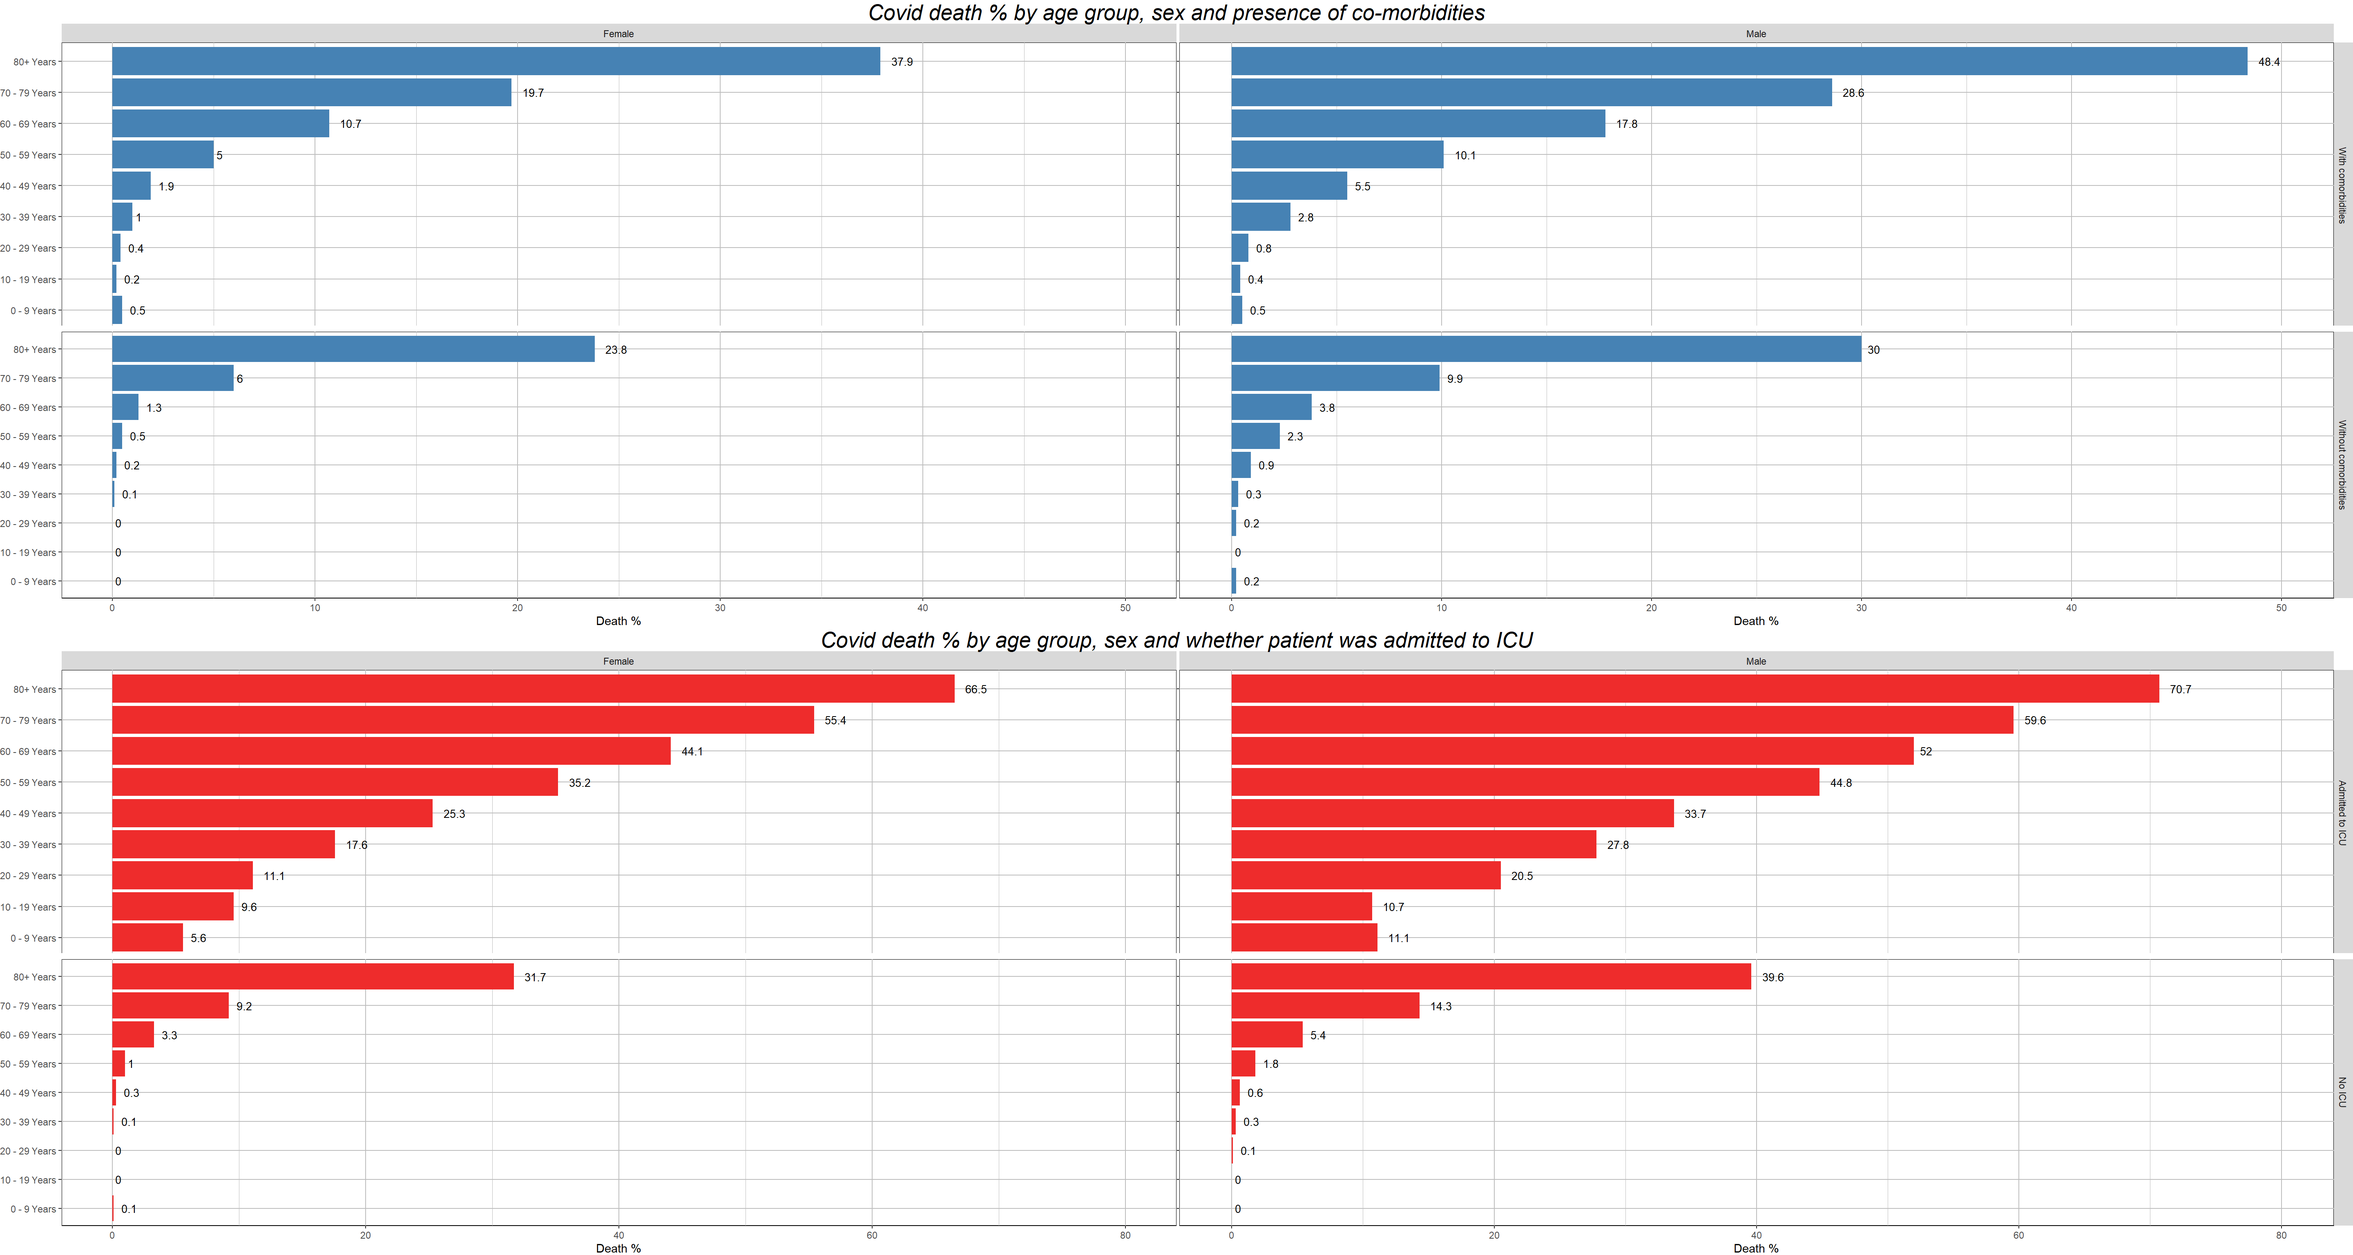
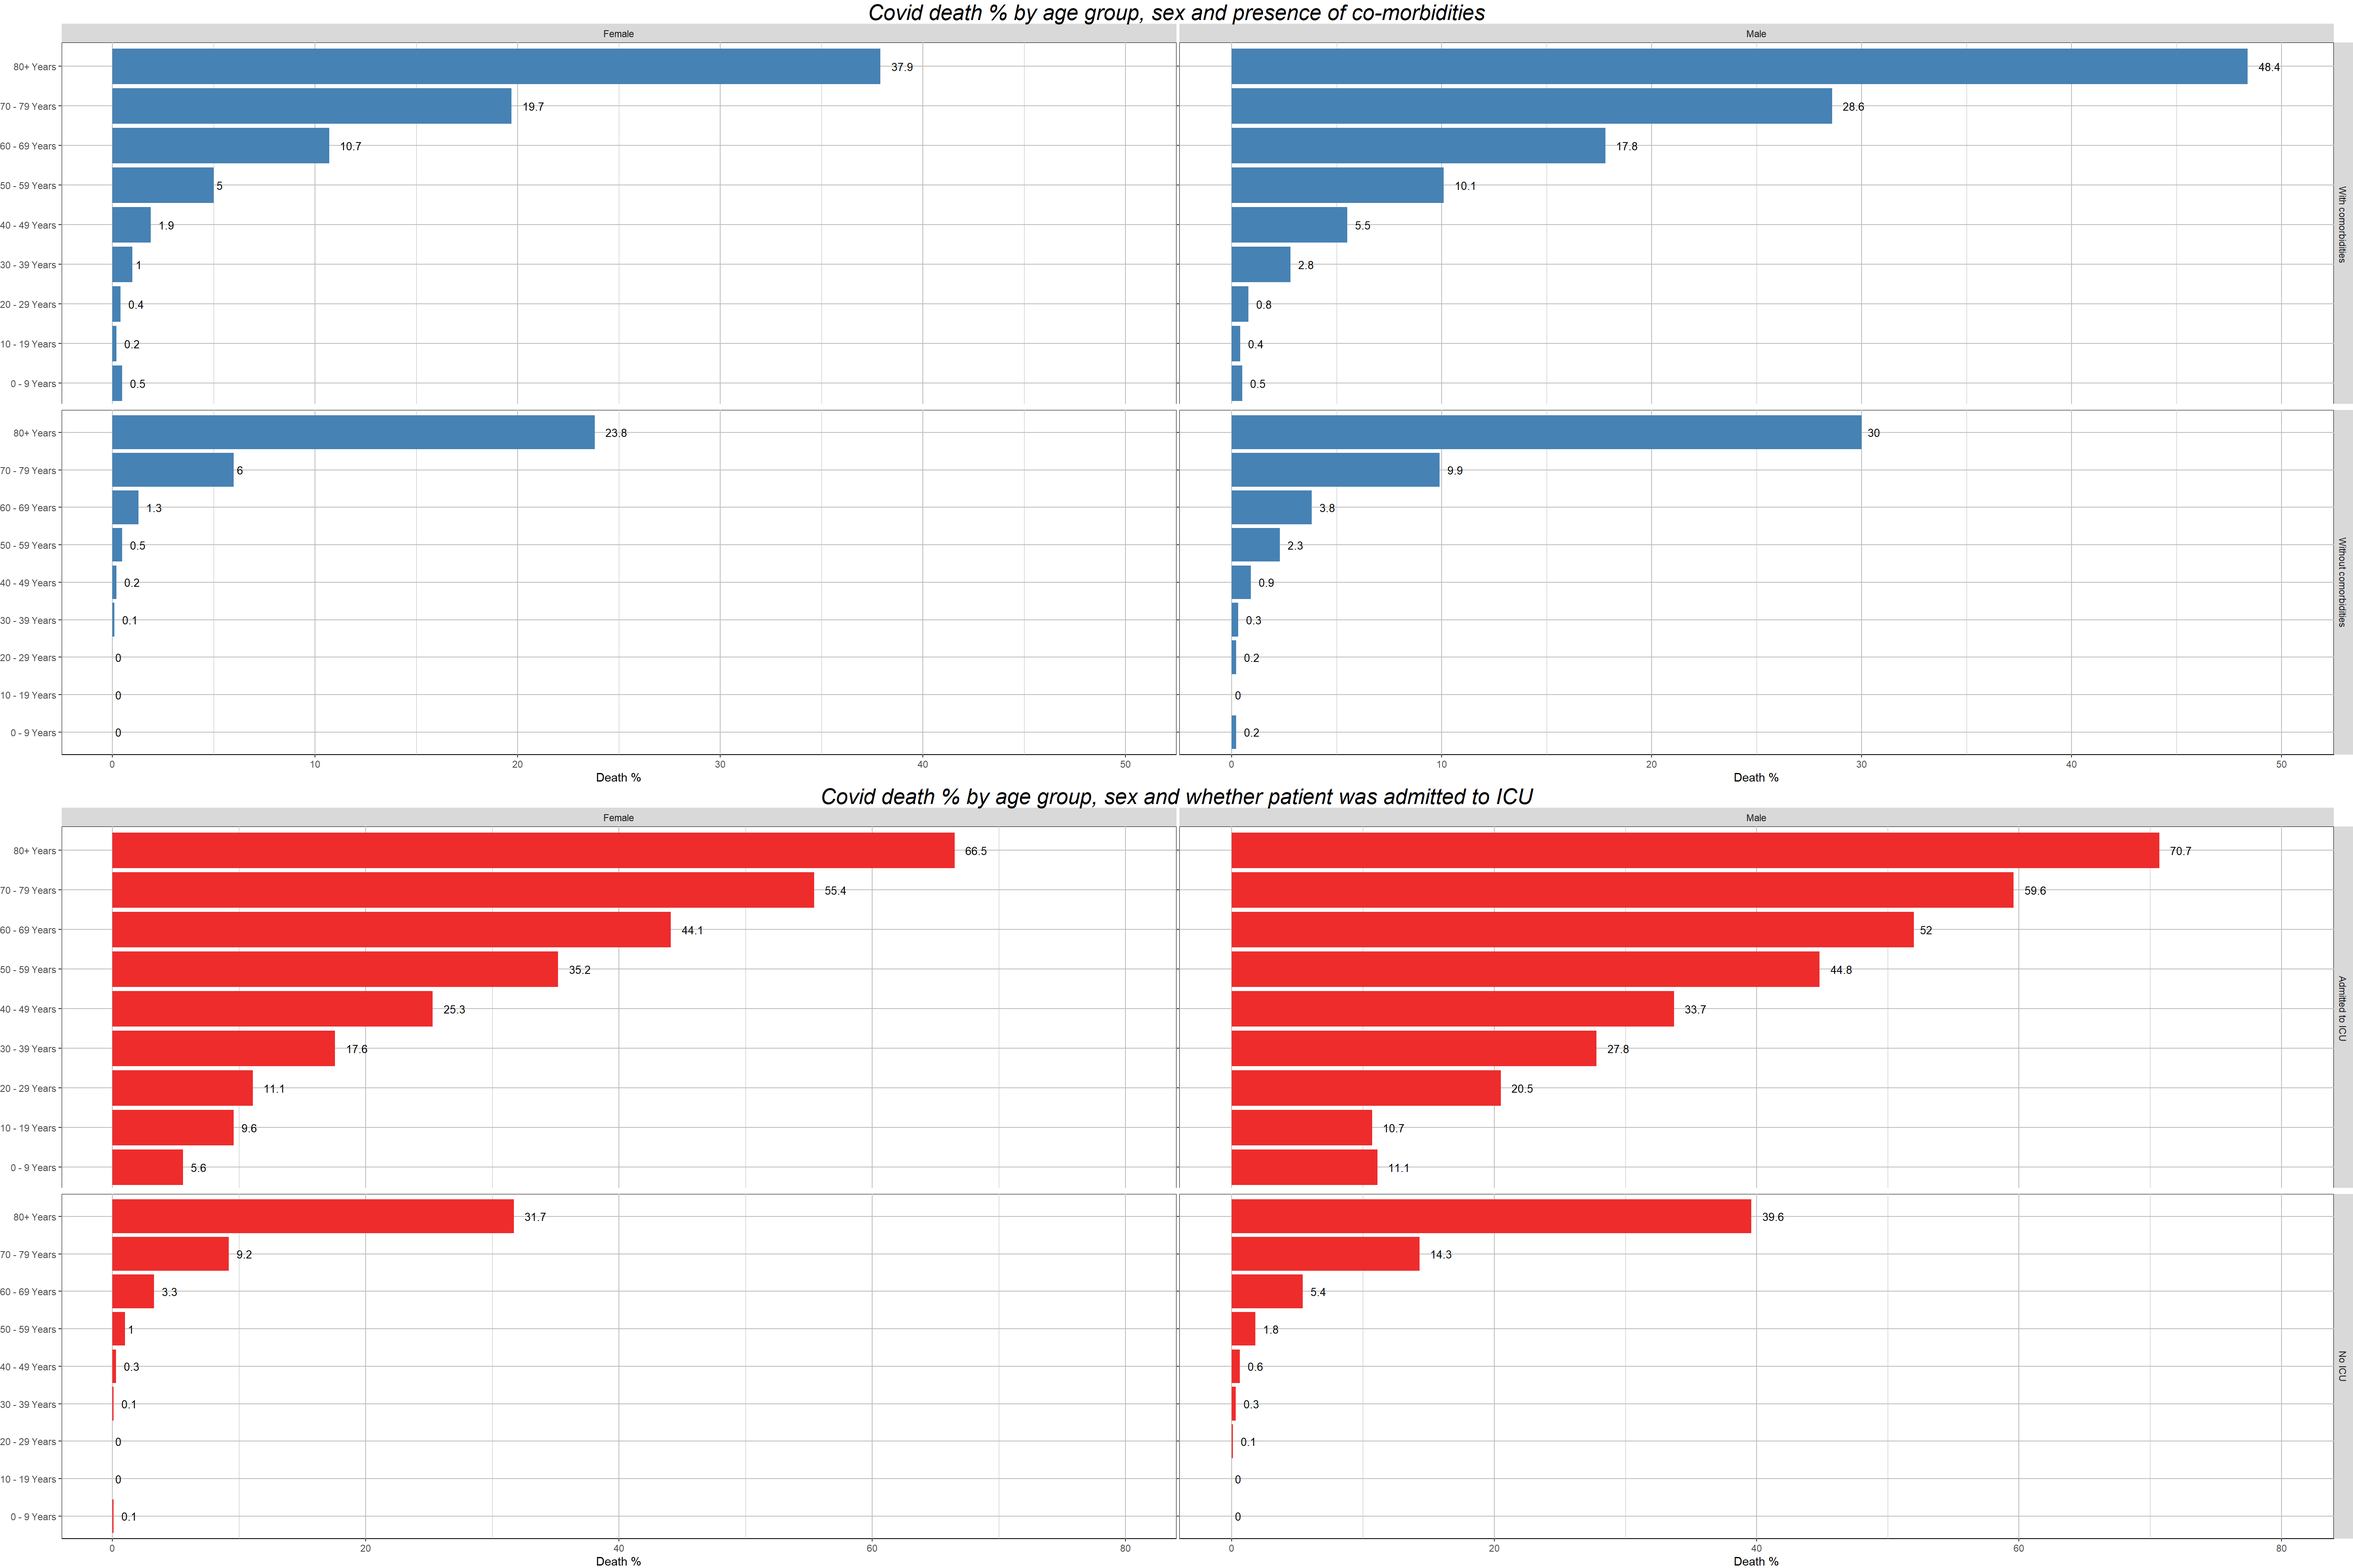
END

diff --git a/content/projects/project2/index.html b/content/projects/project2/index.html
@@ -156,7 +156,11 @@ p1 &lt;- plots(0,&quot;Female&quot;,&quot;Yes&quot;) +
   scale_x_continuous(limits=c(0, 50))</code></pre>
 <pre><code>## [1]  0.2  0.0  0.2  0.3  0.9  2.3  3.8  9.9 30.0
 ## [1] 9</code></pre>
-<p><img src="index_files/figure-html/unnamed-chunk-2-1.png" width="672" /></p>
+<pre class="r"><code>big_plot1 &lt;- grid.arrange(p1,p2,p3,p4,
+              nrow = 2, 
+              top = textGrob(&quot;Covid death % by age group, sex and presence of co-morbidities&quot;,
+              gp=gpar(fontsize=20,font=3)))</code></pre>
+<p><img src="index_files/figure-html/unnamed-chunk-2-1.png" width="2880" /></p>
 <pre class="r"><code>g1 &lt;- plots(1,&quot;Female&quot;,&quot;Yes&quot;) +
   facet_grid(~&quot;Female&quot; ) +
   theme(axis.title = element_blank(),
@@ -188,6 +192,10 @@ p1 &lt;- plots(0,&quot;Female&quot;,&quot;Yes&quot;) +
   scale_x_continuous(limits=c(0, 80))</code></pre>
 <pre><code>## [1]  0.0  0.0  0.1  0.3  0.6  1.8  5.4 14.3 39.6
 ## [1] 9</code></pre>
-<p><img src="index_files/figure-html/unnamed-chunk-4-1.png" width="672" /></p>
+<pre class="r"><code>big_plot2 &lt;- grid.arrange(g1, g2, g3, g4,
+              nrow = 2,
+              top = textGrob(&quot;Covid death % by age group, sex and whether patient was admitted to ICU&quot;,
+              gp=gpar(fontsize=20, font=3)))</code></pre>
+<p><img src="index_files/figure-html/unnamed-chunk-4-1.png" width="2880" /></p>
 <p>As a final step, we can plot the conclusive graphs for our vision.</p>
 <p><img src="index_files/figure-html/covid_challenge-1.png" width="100%" /><img src="C:/Users/hugo_/Documents/Work/MSc Finance/LBS MFA/Courses/02 Data Analytics/00 Git & RStudio/my_website_final/images/covid_death_rate_comorbidities.png" width="100%" /><img src="C:/Users/hugo_/Documents/Work/MSc Finance/LBS MFA/Courses/02 Data Analytics/00 Git & RStudio/my_website_final/images/covid_death_rate_icu.png" width="100%" /></p>
